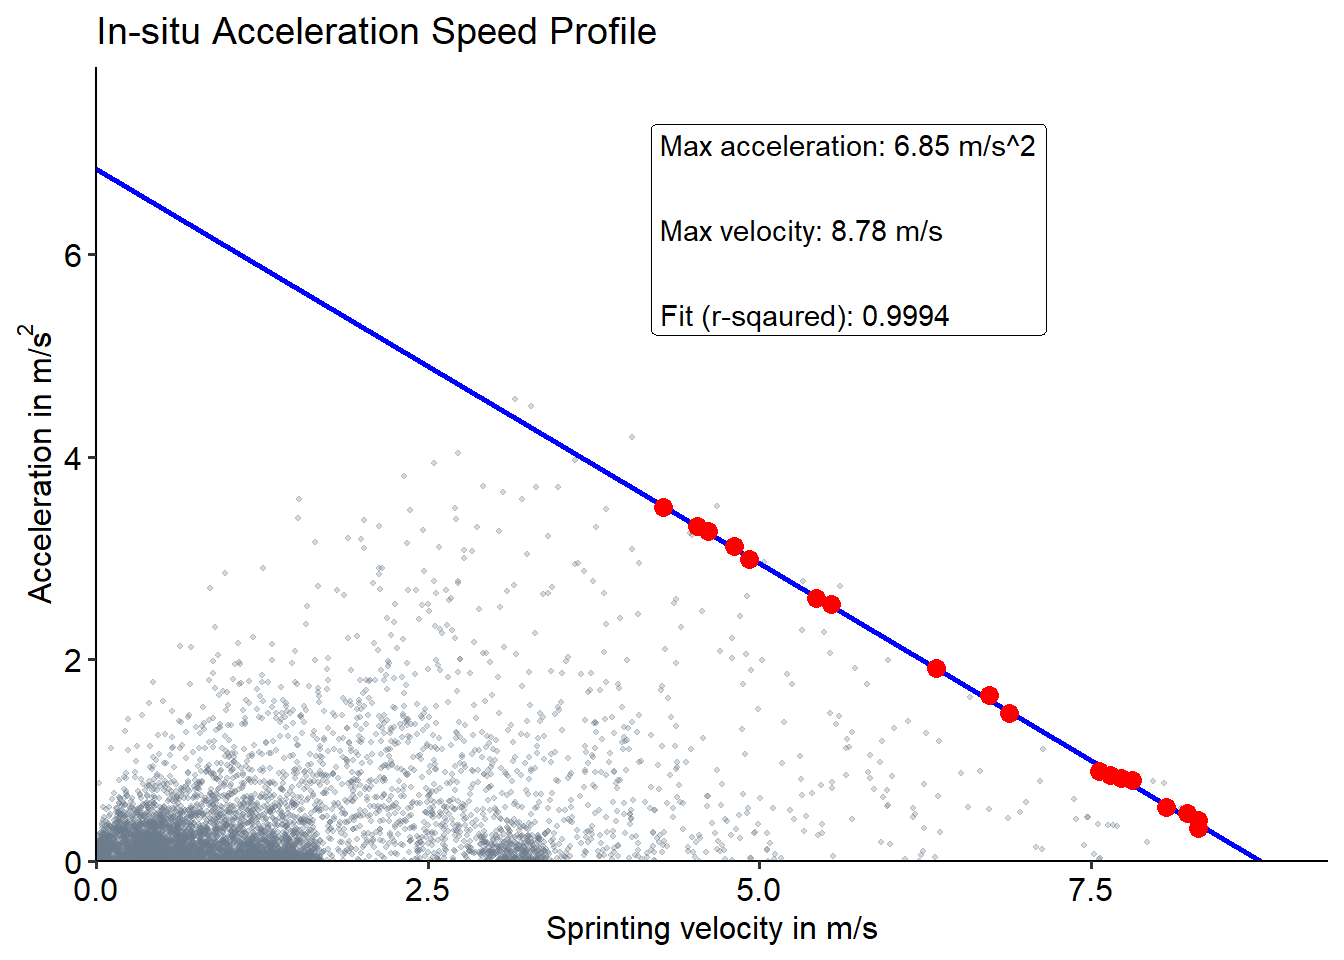
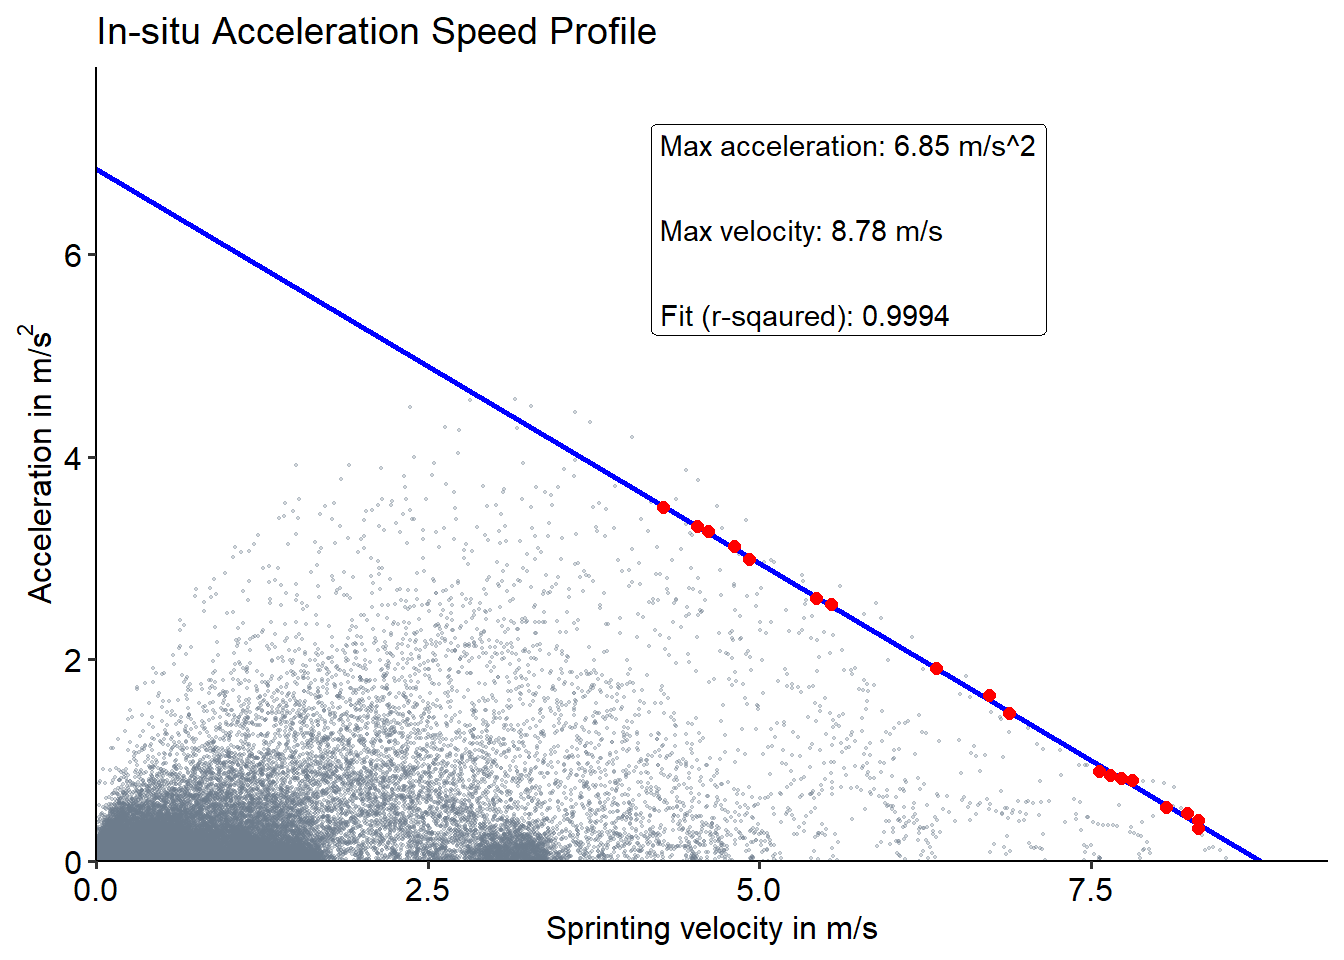
InSitu Post updated
Box plot method added

diff --git a/public/post/force-velocity/index.html b/public/post/force-velocity/index.html
@@ -344,10 +344,10 @@
     
       <meta
         property="article:published_time"
-        content="2024-05-08T00:00:00&#43;00:00"
+        content="2024-05-29T00:00:00&#43;00:00"
       />
     
-    <meta property="article:modified_time" content="2024-05-08T00:00:00&#43;00:00">
+    <meta property="article:modified_time" content="2024-05-29T00:00:00&#43;00:00">
   
 
   
@@ -379,8 +379,8 @@
     "https://lasseishoi.netlify.app/post/force-velocity/featured.png"
   ],
   
-  "datePublished": "2024-05-08T00:00:00Z",
-  "dateModified": "2024-05-08T00:00:00Z",
+  "datePublished": "2024-05-29T00:00:00Z",
+  "dateModified": "2024-05-29T00:00:00Z",
   
   "author": {
     "@type": "Person",
@@ -792,7 +792,7 @@
     
       
     
-    May 8, 2024
+    May 29, 2024
   </span>
   
 
@@ -801,7 +801,7 @@
   
   <span class="middot-divider"></span>
   <span class="article-reading-time">
-    8 min read
+    9 min read
   </span>
   
 
@@ -1272,8 +1272,17 @@ rawData_list &lt;- data %&gt;%
 # Prepare data and inition plot
 InSituASProfile::prepare_data(all_data, print_plot = TRUE)</code></pre>
 <p><img src="https://lasseishoi.netlify.app/post/force-velocity/index.en_files/figure-html/AS%20profile-1.png" width="672" /></p>
-<pre class="r"><code>InSituASProfile::get_AS_Profile()</code></pre>
+<p>The final model can be computed using either the 95 CI or Turkey boxplot method for outlier removal. The 95 CI method is the original method described in <strong><a href="https://pubmed.ncbi.nlm.nih.gov/34023754/">Individual acceleration-speed profile in-situ: A proof of concept in professional football players</a></strong>. This method initially fits a regression model, removes points outside of the 95 CI limits, before fitting the final model. The box plot method has recently been described in <strong><a href="https://pubmed.ncbi.nlm.nih.gov/37451206/">Comparison of acceleration-speed profiles from training and competition to individual maximal sprint efforts</a></strong>. This method uses the top 2 percent of accelerations for each velocity bin (0.1 m/s), constructs a box plot for each bin, and then removes points outside of the IQR * 1. Subsequently, the final regression model is fitted. By default, <strong>InSituASProfile::get_AS_Profile</strong> uses the 95% CI outlier detection, but if you want to use the box plot method just set <strong>ci_outlier_detection = FALSE</strong>.</p>
+<pre class="r"><code>#Using the 95% CI method
+InSituASProfile::get_AS_Profile(print_plot_regression_line = FALSE, 
+                                print_AS_plot = TRUE, 
+                                ci_outlier_detection = TRUE)</code></pre>
 <p><img src="https://lasseishoi.netlify.app/post/force-velocity/index.en_files/figure-html/final%20model-1.png" width="672" /></p>
+<pre class="r"><code>#Using the box plot method
+InSituASProfile::get_AS_Profile(print_plot_regression_line = FALSE, 
+                                print_AS_plot = TRUE, 
+                                ci_outlier_detection = FALSE)</code></pre>
+<p><img src="https://lasseishoi.netlify.app/post/force-velocity/index.en_files/figure-html/final%20model-2.png" width="672" /></p>
 </div>
 </div>
 

diff --git a/content/post/Force-Velocity/index.en.html b/content/post/Force-Velocity/index.en.html
@@ -1,13 +1,13 @@
 ---
 title: In Situ Acceleration-Speed Profile
 author: 'Lasse Ishøi'
-date: "2024-05-08"
+date: "2024-05-29"
 categories: []
 tags: []
 subtitle: "Automisation using using the CatapultR package"
 summary: "A simple how-to guide using R Studio"
 authors: []
-lastmod: "2024-05-08"
+lastmod: "2024-05-29"
 featured: yes
 image: 
   caption: ''
@@ -449,7 +449,16 @@ rawData_list &lt;- data %&gt;%
 # Prepare data and inition plot
 InSituASProfile::prepare_data(all_data, print_plot = TRUE)</code></pre>
 <p><img src="{{< blogdown/postref >}}index.en_files/figure-html/AS%20profile-1.png" width="672" /></p>
-<pre class="r"><code>InSituASProfile::get_AS_Profile()</code></pre>
+<p>The final model can be computed using either the 95 CI or Turkey boxplot method for outlier removal. The 95 CI method is the original method described in <strong><a href="https://pubmed.ncbi.nlm.nih.gov/34023754/">Individual acceleration-speed profile in-situ: A proof of concept in professional football players</a></strong>. This method initially fits a regression model, removes points outside of the 95 CI limits, before fitting the final model. The box plot method has recently been described in <strong><a href="https://pubmed.ncbi.nlm.nih.gov/37451206/">Comparison of acceleration-speed profiles from training and competition to individual maximal sprint efforts</a></strong>. This method uses the top 2 percent of accelerations for each velocity bin (0.1 m/s), constructs a box plot for each bin, and then removes points outside of the IQR * 1. Subsequently, the final regression model is fitted. By default, <strong>InSituASProfile::get_AS_Profile</strong> uses the 95% CI outlier detection, but if you want to use the box plot method just set <strong>ci_outlier_detection = FALSE</strong>.</p>
+<pre class="r"><code>#Using the 95% CI method
+InSituASProfile::get_AS_Profile(print_plot_regression_line = FALSE, 
+                                print_AS_plot = TRUE, 
+                                ci_outlier_detection = TRUE)</code></pre>
 <p><img src="{{< blogdown/postref >}}index.en_files/figure-html/final%20model-1.png" width="672" /></p>
+<pre class="r"><code>#Using the box plot method
+InSituASProfile::get_AS_Profile(print_plot_regression_line = FALSE, 
+                                print_AS_plot = TRUE, 
+                                ci_outlier_detection = FALSE)</code></pre>
+<p><img src="{{< blogdown/postref >}}index.en_files/figure-html/final%20model-2.png" width="672" /></p>
 </div>
 </div>

diff --git a/public/index.html b/public/index.html
@@ -381,7 +381,7 @@
     <meta property="twitter:image" content="https://lasseishoi.netlify.app/media/icon_hucba55b6d6add185d5221e19e25d5385d_3121468_512x512_fill_lanczos_center_3.png" /><meta property="og:locale" content="en-us" />
   
     
-      <meta property="og:updated_time" content="2024-05-08T00:00:00&#43;00:00" />
+      <meta property="og:updated_time" content="2024-05-29T00:00:00&#43;00:00" />
     
   
 
@@ -1639,7 +1639,7 @@
     
       
     
-    May 8, 2024
+    May 29, 2024
   </span>
   
 
@@ -1648,7 +1648,7 @@
   
   <span class="middot-divider"></span>
   <span class="article-reading-time">
-    8 min read
+    9 min read
   </span>
   
 

diff --git a/public/post/index.html b/public/post/index.html
@@ -345,7 +345,7 @@
     <meta property="twitter:image" content="https://lasseishoi.netlify.app/media/icon_hucba55b6d6add185d5221e19e25d5385d_3121468_512x512_fill_lanczos_center_3.png" /><meta property="og:locale" content="en-us" />
   
     
-      <meta property="og:updated_time" content="2024-05-08T00:00:00&#43;00:00" />
+      <meta property="og:updated_time" content="2024-05-29T00:00:00&#43;00:00" />
     
   
 
@@ -780,7 +780,7 @@
     
       
     
-    May 8, 2024
+    May 29, 2024
   </span>
   
 
@@ -789,7 +789,7 @@
   
   <span class="middot-divider"></span>
   <span class="article-reading-time">
-    8 min read
+    9 min read
   </span>
   
 
